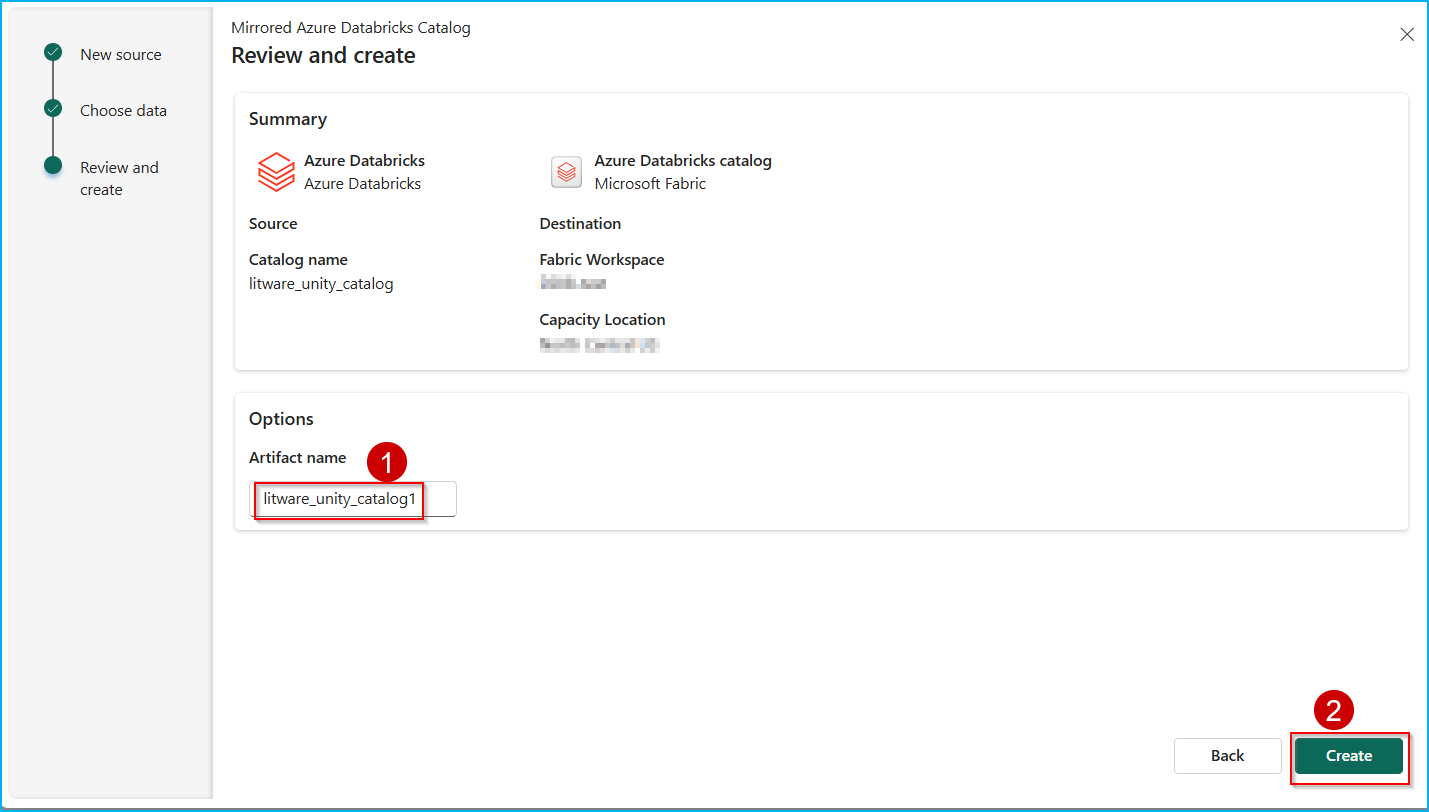
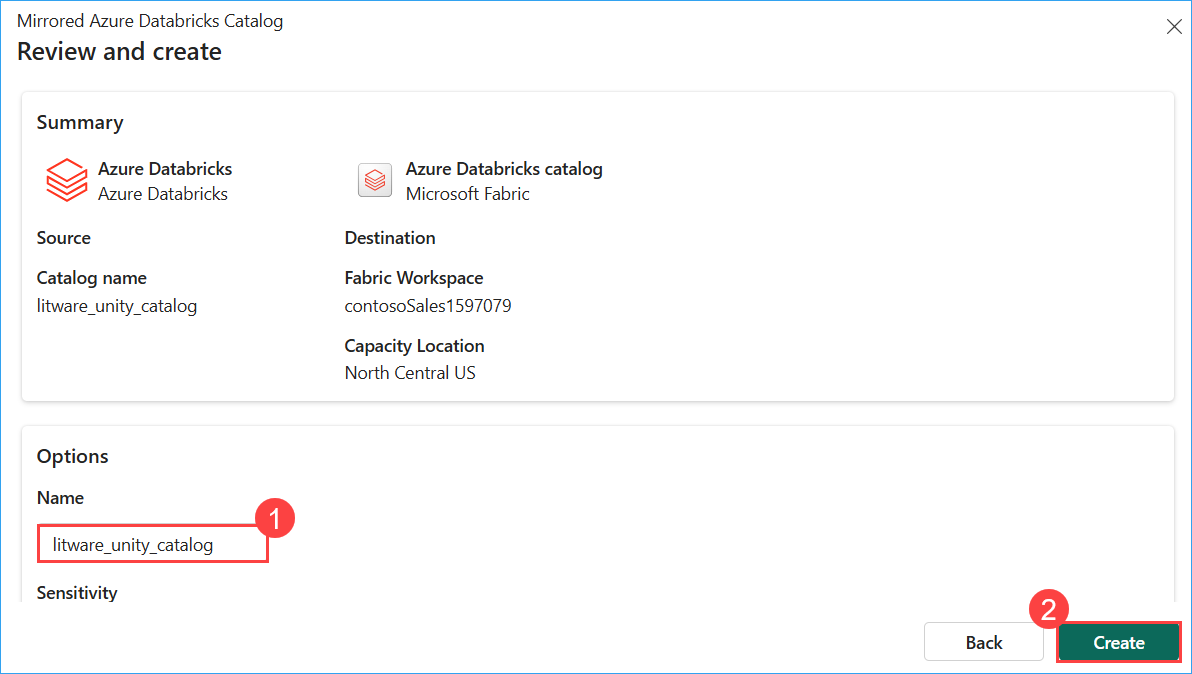
updated the changes which suggested in internal testing

diff --git a/exercise4.md b/exercise4.md
@@ -25,11 +25,13 @@ Let’s see how Copilot for Notebook helps you, as a Data Engineer, quickly crea
 
    ![task-3.1.2.png](media/labMedia/f16.png)
 
+   **Note:** If the Import option is not visible, click the **three dots (ellipsis)** button and select Import.
+
 3. Click on the **Upload** button.
 
    ![task-3.1.2.png](media/labMedia/exercise5_1.3.1.png)
 
-4. Browse to the fabricnotebooks folder in your VM  by following the path C:\LabFiles\techconnect\artifacts\fabricnotebooks and then select **Build ML models and experiments using Copilot for Data Science in Microsoft Fabric** notebook.
+4. Browse to the fabricnotebooks folder in your VM  by following the path `C:\LabFiles\techconnect\artifacts\fabricnotebooks` and then select **Build ML models and experiments using Copilot for Data Science in Microsoft Fabric** notebook.
 
 5. Click on the **Open** button.
 
@@ -79,6 +81,8 @@ Let’s see how Copilot for Notebook helps you, as a Data Engineer, quickly crea
 16. Click on the **Copilot** button and then click on the **Get Started** button.
 
     ![task-3.1.2.png](media/labMedia/exercise5_1.6.png)
+
+     **Note:** If the **Copilot** option is not visible, click the **three dots (ellipsis)** button and select Copilot.
 
 17. Run the **first cell** of the notebook to install the copilot packages.
 
@@ -163,6 +167,10 @@ The rest of the notebook has similar PySpark queries to explore customer churn p
 7. Click on **New AutoML Run** icon.
 
    ![task-3.1.2.png](media/labMedia/AutoMLf-21.png)
+
+    **Note :** If the **New AutoML Run** option is not visible, click the **three dots (ellipsis)** button and select **New AutoML Run**.
+
+     ![task-wb8S.png](media/labMedia/u60.png)
 
 8. Click on **lakehouse** and then click on the **Next** button.
 

diff --git a/exercise1.md b/exercise1.md
@@ -142,11 +142,11 @@ Now, this is something exciting! This section shows how easy it is to create Sho
 
 6. Copy the **Data Lake Storage endpoint**: **<inject key= "storageEndpoint" enableCopy="true"/>** and paste it into the **URL** field.
 
-   > **Note** : If you're already **signed in**, you can skip steps 8 and 9.
-
 7. Select **Organization account** in the **Authentication Kind**, and then click on **Sign in**.
 
    ![shortcut111.png](media/labMedia/task-1.3-ext-shortcut-111.png)
+
+   > **Note** : If you're already **signed in**, you can skip steps 8 and 9.
 
 8. Click on your ID to complete the Sign in.
 
@@ -300,6 +300,10 @@ You will experience how easy it is to use Fast Copy to transform 100M rows of Li
 
       ![getdataSs.png](media/labMedia/getdataSs.png)
 
+   **Note:** If the **Get data** option is not visible, click **New query** and then select **Get data**.
+   
+    ![getdataSs.png](media/labMedia/getdatau.png)
+
 4. In the pop-up window, scroll down to **OneLake catalog** and click on **lakehouse**.
 
    >Note: It may take some time to appear in **Recent**. You can try finding it under **Recommended** or **OneLake** in the left navigation panel.
@@ -375,7 +379,9 @@ You will experience how easy it is to use Fast Copy to transform 100M rows of Li
 
      ![](media/57.png)
 
-     > **Note** : If the **Add data destination** option is not visible, click on Query and then select **Add data destination**.
+     > **Note** : If the **Add data destination** option is not visible, click on **Query** and then select **Add data destination**.
+
+     ![](media/u58.png)
 
 16. Click on **Next** button.
 

diff --git a/exercise2.md b/exercise2.md
@@ -108,11 +108,11 @@ Mirroring the Azure Databricks Catalog structure in Microsoft Fabric allows seam
 
    ![Task-2.3_7.1.png](media/labMedia/Task-2.3_7.1.png)
 
-9. In the **Choose data** screen, select the Catalog name as **litware_unity_catalog** from the dropdown box, and select the **rag** schema if not selected, then select the checkbox **Automatically sync future catalog changes for the selected schema** (to mirror future tables) if not ticked and click on **Next** button.
+9. In the **Choose data** screen, select the Catalog name as **litware_unity_catalog** from the dropdown box, and ensure **default** and **rag** schema is selected, then select the checkbox **Automatically sync future catalog changes for the selected schema** (to mirror future tables) if not ticked and click on **Next** button.
 
-   ![Task-2.3_8.png](media/labMedia/Task-2.3_8.png)
+     ![Task-2.3_8.png](media/labMedia/Task-2.3_8u.png)
 
-10. In the **Artifact name** field enter **litware_unity_catalog** for your mirrored Databricks Catalog and click on the **Create** button.
+10. In the **Name** field enter **litware_unity_catalog** for your mirrored Databricks Catalog and click on the **Create** button.
 
     ```BASH
     litware_unity_catalog

diff --git a/exercise5.md b/exercise5.md
@@ -34,6 +34,8 @@ In the exercise, we’ll explore how Data Engineer, Eva, ingested real-time data
 
    ![eventhouse3.png](media/labMedia/f46.png)
 
+   **Note :** If you have 10 items in the left navigation, you won't be able to create an Eventstream. Remove any unnecessary items and then proceed to create the Eventstream.
+
 
 5. Enter the name as **RealtimeDataTo-KQL-DB** and click on the **Create** button.
 
